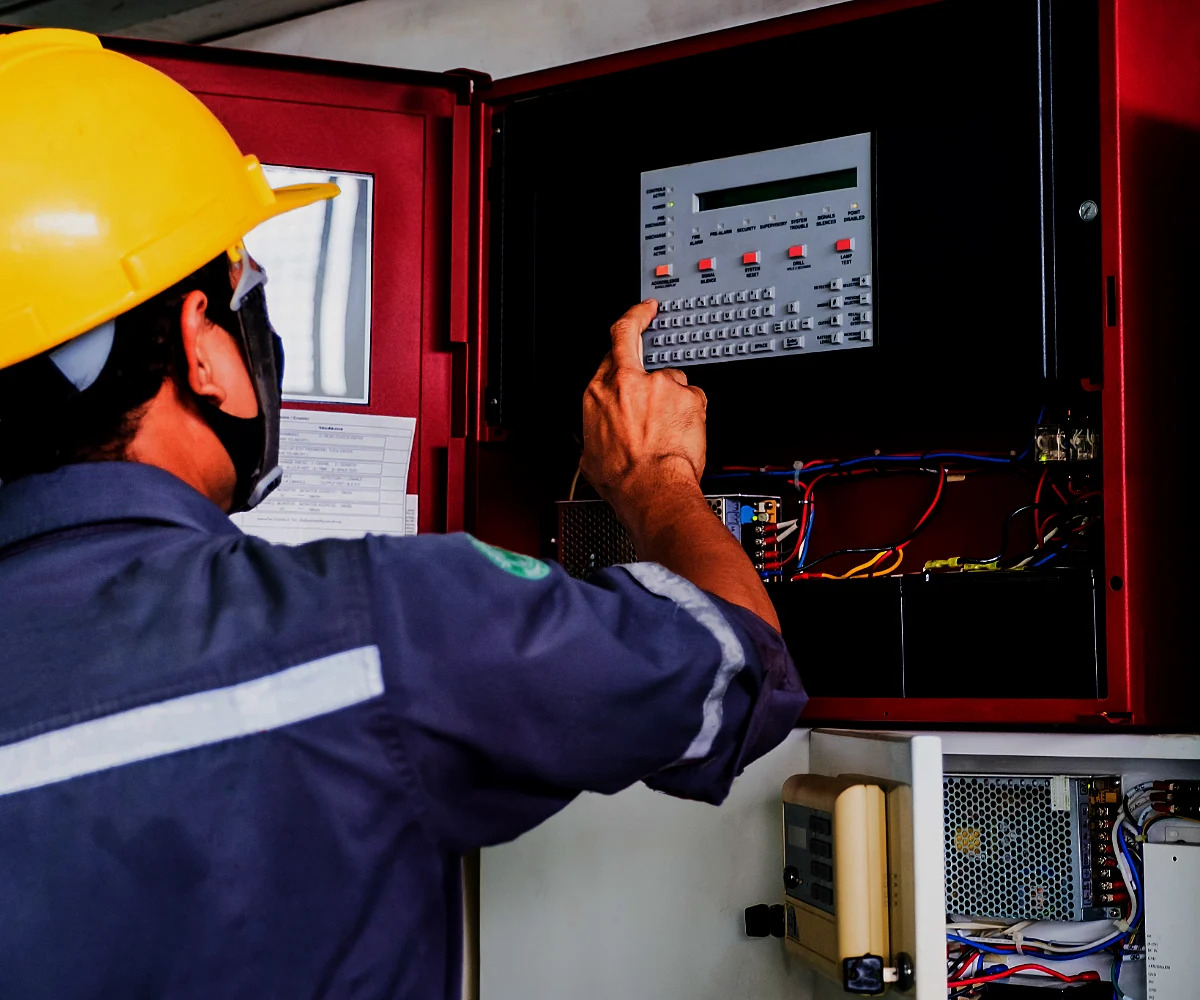
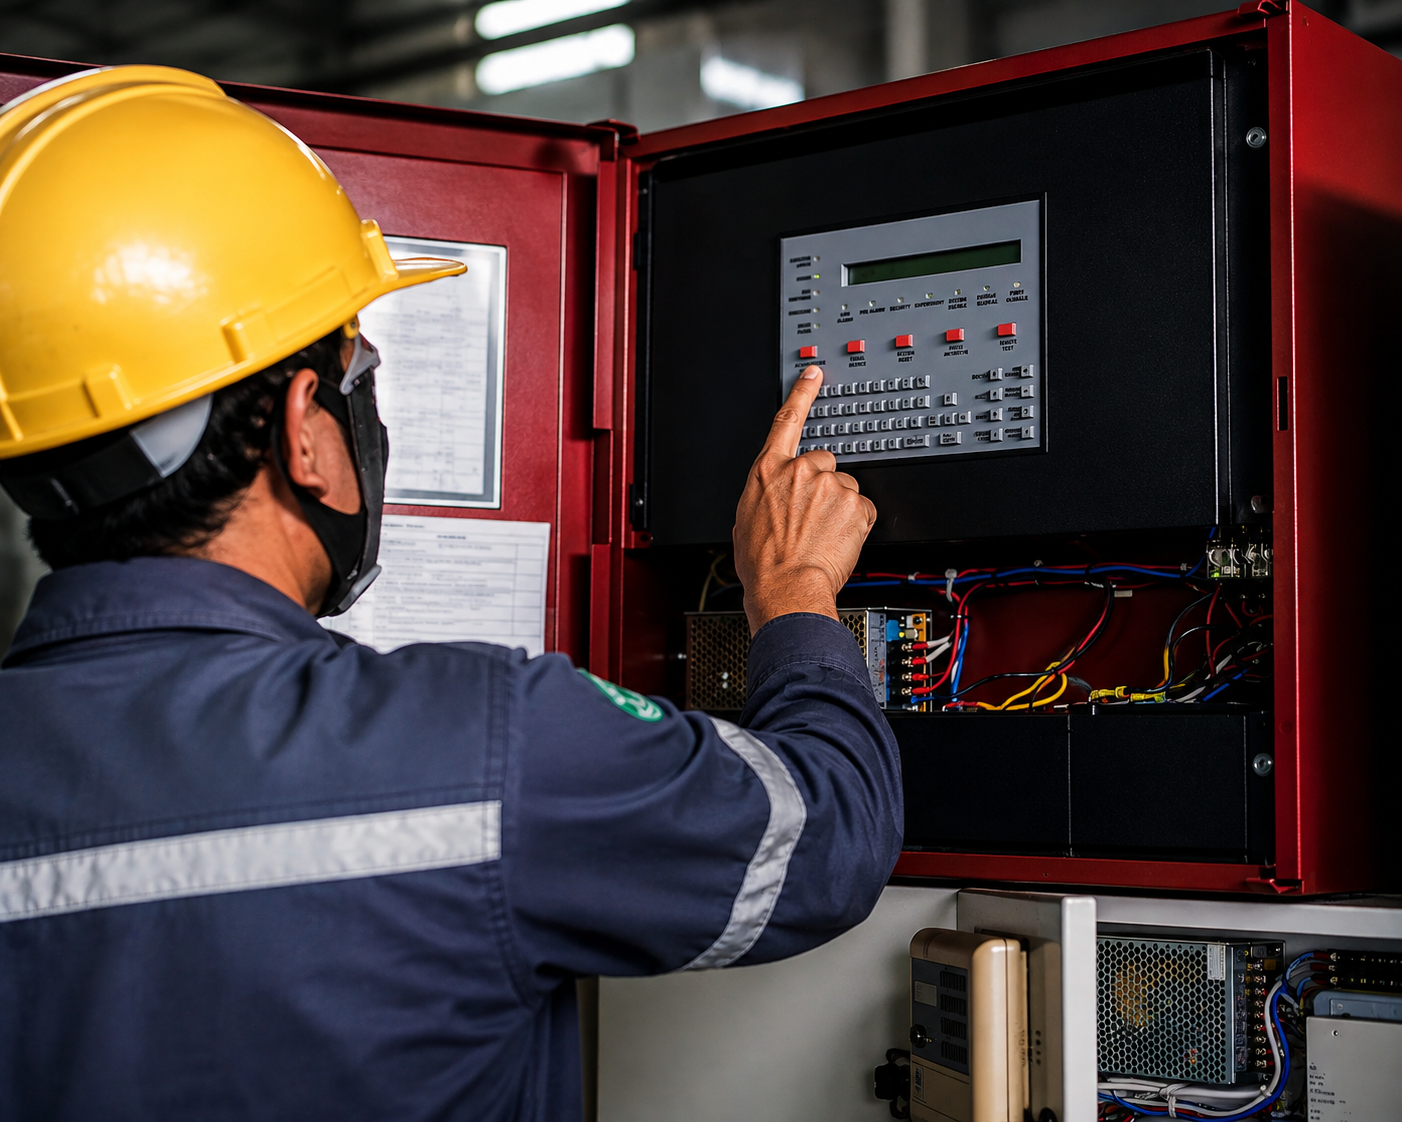
Reajuetes - Serviços

diff --git a/paginas/servicos.html b/paginas/servicos.html
@@ -96,13 +96,18 @@
         ================================================== -->
 
       <section class="services-page">
-        <div class="services-container">
-          <div class="services-heading">
-            <span> Soluções </span>
-
+        <!-- BANNER SERVIÇOS -->
+        <div class="services-hero">
+          <div class="services-hero-content">
             <h1>Conheça Nossos Serviços</h1>
-          </div>
 
+            <p class="services-hero-text">
+              Tecnologia que mantém sua operação em movimento.
+            </p>
+          </div>
+        </div>
+
+        <div class="services-container">
           <div class="services-box">
             <!-- =====================================
                          ABAS
@@ -169,8 +174,6 @@
               </div>
 
               <div class="service-content">
-                <span class="service-number"> 01 </span>
-
                 <h2>Implantação de Projetos e Gestão</h2>
 
                 <p>
@@ -230,8 +233,6 @@
               </div>
 
               <div class="service-content">
-                <span class="service-number"> 02 </span>
-
                 <h2>Manutenção Corretiva</h2>
 
                 <p>
@@ -315,8 +316,6 @@
               </div>
 
               <div class="service-content">
-                <span class="service-number"> 03 </span>
-
                 <h2>Manutenção Preditiva</h2>
 
                 <p>
@@ -396,8 +395,6 @@
               </div>
 
               <div class="service-content">
-                <span class="service-number"> 04 </span>
-
                 <h2>Manutenção Preventiva</h2>
 
                 <p>
@@ -491,8 +488,6 @@
               </div>
 
               <div class="service-content">
-                <span class="service-number"> 05 </span>
-
                 <h2>Monitoramento Remoto</h2>
 
                 <p>
@@ -559,8 +554,6 @@
               </div>
 
               <div class="service-content">
-                <span class="service-number"> 06 </span>
-
                 <h2>Oficina Volante</h2>
 
                 <p>
@@ -628,87 +621,136 @@
         </div>
       </section>
 
-      <!-- =================================================
-             SEGMENTOS ATENDIDOS
-        ================================================== -->
+<!-- =================================================
+     SEGMENTOS ATENDIDOS
+================================================== -->
 
-      <section class="segments">
-        <div class="segments-container">
-          <h2 class="segments-title">Segmentos Atendidos</h2>
+<section class="segments">
+  <div class="segments-container">
 
-          <div class="segments-grid">
-            <div class="segment-card">
-              <img
-                src="https://cdn.shopify.com/s/files/1/0704/4418/7888/files/Untitled_design_-_2024-06-03T175835.309.png?v=1717448323"
-                alt="Indústria"
-                loading="lazy"
-              />
+    <h2 class="segments-title">Segmentos Atendidos</h2>
 
-              <h3>Indústria</h3>
-            </div>
+    <div class="verticals-grid">
 
-            <div class="segment-card">
-              <img
-                src="https://cdn.shopify.com/s/files/1/0704/4418/7888/files/Untitled_design_-_2024-06-03T180139.936.png?v=1717448815"
-                alt="Mineração"
-                loading="lazy"
-              />
-
-              <h3>Mineração</h3>
-            </div>
-
-            <div class="segment-card">
-              <img
-                src="https://cdn.shopify.com/s/files/1/0704/4418/7888/files/Untitled_design_-_2024-06-03T180514.488.png?v=1717448815"
-                alt="Portos"
-                loading="lazy"
-              />
-
-              <h3>Portos</h3>
-            </div>
-
-            <div class="segment-card">
-              <img
-                src="https://cdn.shopify.com/s/files/1/0704/4418/7888/files/Untitled_design_-_2024-06-03T180531.594.png?v=1717448815"
-                alt="Construtoras"
-                loading="lazy"
-              />
-
-              <h3>Construtoras</h3>
-            </div>
-
-            <div class="segment-card">
-              <img
-                src="https://cdn.shopify.com/s/files/1/0704/4418/7888/files/Untitled_design_-_2024-06-03T180541.453.png?v=1717448815"
-                alt="Shopping"
-                loading="lazy"
-              />
-
-              <h3>Shopping</h3>
-            </div>
-
-            <div class="segment-card">
-              <img
-                src="https://cdn.shopify.com/s/files/1/0704/4418/7888/files/Untitled_design_-_2024-06-03T180553.122.png?v=1717448815"
-                alt="Edifícios Comerciais"
-                loading="lazy"
-              />
-
-              <h3>Edifícios Comerciais</h3>
-            </div>
-
-            <div class="segment-card">
-              <img
-                src="https://cdn.shopify.com/s/files/1/0704/4418/7888/files/Untitled_design_-_2024-06-03T180605.050.png?v=1717448815"
-                alt="Hospitais"
-                loading="lazy"
-              />
-
-              <h3>Hospitais</h3>
-            </div>
-          </div>
+      <!-- INDÚSTRIA -->
+      <a href="verticais.html#industria" class="vertical-card">
+        <div class="vertical-image">
+          <img
+            src="../assets/home/industria-home.jpg"
+            alt="Indústria"
+            loading="lazy"
+          />
         </div>
-      </section>
+
+        <div class="vertical-content">
+          <h3>Indústria</h3>
+          <span>Conheça →</span>
+        </div>
+      </a>
+
+      <!-- MINERAÇÃO -->
+      <a href="verticais.html#mineracao" class="vertical-card">
+        <div class="vertical-image">
+          <img
+            src="../assets/home/mineracao-home.jpg"
+            alt="Mineração"
+            loading="lazy"
+          />
+        </div>
+
+        <div class="vertical-content">
+          <h3>Mineração</h3>
+          <span>Conheça →</span>
+        </div>
+      </a>
+
+      <!-- PORTOS -->
+      <a href="verticais.html#portos" class="vertical-card">
+        <div class="vertical-image">
+          <img
+            src="../assets/home/portos-home.jpg"
+            alt="Portos"
+            loading="lazy"
+          />
+        </div>
+
+        <div class="vertical-content">
+          <h3>Portos</h3>
+          <span>Conheça →</span>
+        </div>
+      </a>
+
+      <!-- CONSTRUTORAS -->
+      <a href="verticais.html#construtoras" class="vertical-card">
+        <div class="vertical-image">
+          <img
+            src="../assets/home/construtoras-home.jpg"
+            alt="Construtoras"
+            loading="lazy"
+          />
+        </div>
+
+        <div class="vertical-content">
+          <h3>Construtoras</h3>
+          <span>Conheça →</span>
+        </div>
+      </a>
+
+      <!-- SHOPPING -->
+      <a href="verticais.html#shopping" class="vertical-card">
+        <div class="vertical-image">
+          <img
+            src="../assets/home/shopping-home.jpg"
+            alt="Shopping"
+            loading="lazy"
+          />
+        </div>
+
+        <div class="vertical-content">
+          <h3>Shopping</h3>
+          <span>Conheça →</span>
+        </div>
+      </a>
+
+      <!-- EDIFÍCIOS COMERCIAIS -->
+      <a
+        href="verticais.html#edificios-comerciais"
+        class="vertical-card"
+      >
+        <div class="vertical-image">
+          <img
+            src="../assets/home/edificios-home.jpg"
+            alt="Edifícios Comerciais"
+            loading="lazy"
+          />
+        </div>
+
+        <div class="vertical-content">
+          <h3>Edifícios Comerciais</h3>
+          <span>Conheça →</span>
+        </div>
+      </a>
+
+      <!-- HOSPITAIS -->
+      <a href="verticais.html#hospitais" class="vertical-card">
+        <div class="vertical-image">
+          <img
+            src="../assets/home/hospitais-home.jpg"
+            alt="Hospitais"
+            loading="lazy"
+          />
+        </div>
+
+        <div class="vertical-content">
+          <h3>Hospitais</h3>
+          <span>Conheça →</span>
+        </div>
+      </a>
+
+    </div>
+
+  </div>
+</section>
 
       <!-- =================================================
              FORMULÁRIO

diff --git a/css/style.css b/css/style.css
@@ -2246,16 +2246,71 @@ body {
    INÍCO - PÁGINA SERVIÇOS
 ========================================================= */
 
-/* ÁREA PRINCIPAL */
+/* =========================================================
+   BANNER / HERO - SERVIÇOS
+========================================================= */
+
 .services-page {
     background: #f6f8fa;
-    padding: 90px 6% 100px;
+    padding: 0 0 100px;
 }
+
+.services-hero {
+    width: 100%;
+    min-height: 440px;
+
+    background:
+        linear-gradient(
+            90deg,
+            rgba(5, 20, 36, 0.92) 0%,
+            rgba(5, 20, 36, 0.68) 45%,
+            rgba(5, 20, 36, 0.12) 100%
+        ),
+        url("../assets/servicos/banner-servicos.png");
+
+    background-size: cover;
+    background-position: center;
+    background-repeat: no-repeat;
+
+    display: flex;
+    align-items: center;
+}
+
+.services-hero-content {
+    width: 100%;
+    max-width: 1240px;
+    margin: 0 auto;
+    padding: 0 6%;
+}
+
+.services-hero h1 {
+    margin: 0;
+    max-width: 650px;
+
+    color: #ffffff;
+    font-size: clamp(42px, 5vw, 68px);
+    line-height: 1.05;
+    font-weight: 700;
+}
+
+.services-hero-text {
+    margin: 22px 0 0;
+    max-width: 560px;
+    color: #ffffff;
+    font-size: 20px;
+    line-height: 1.5;
+    font-weight: 400;
+}
+
+
+/* ÁREA PRINCIPAL */
 
 .services-container {
     width: 100%;
     max-width: 1240px;
     margin: 0 auto;
+    padding: 70px 6% 0;
+    box-sizing: border-box;
 }
 
 /* TÍTULO */
@@ -2502,7 +2557,7 @@ body {
             rgba(10, 29, 47, 0.92),
             rgba(10, 29, 47, 0.92)
         ),
-        url("https://cdn.shopify.com/s/files/1/0704/4418/7888/files/Untitled_15.png?v=1717004184")
+         url("../assets/servicos/banner-cidade.jpg")
         center / cover no-repeat;
 }
 
